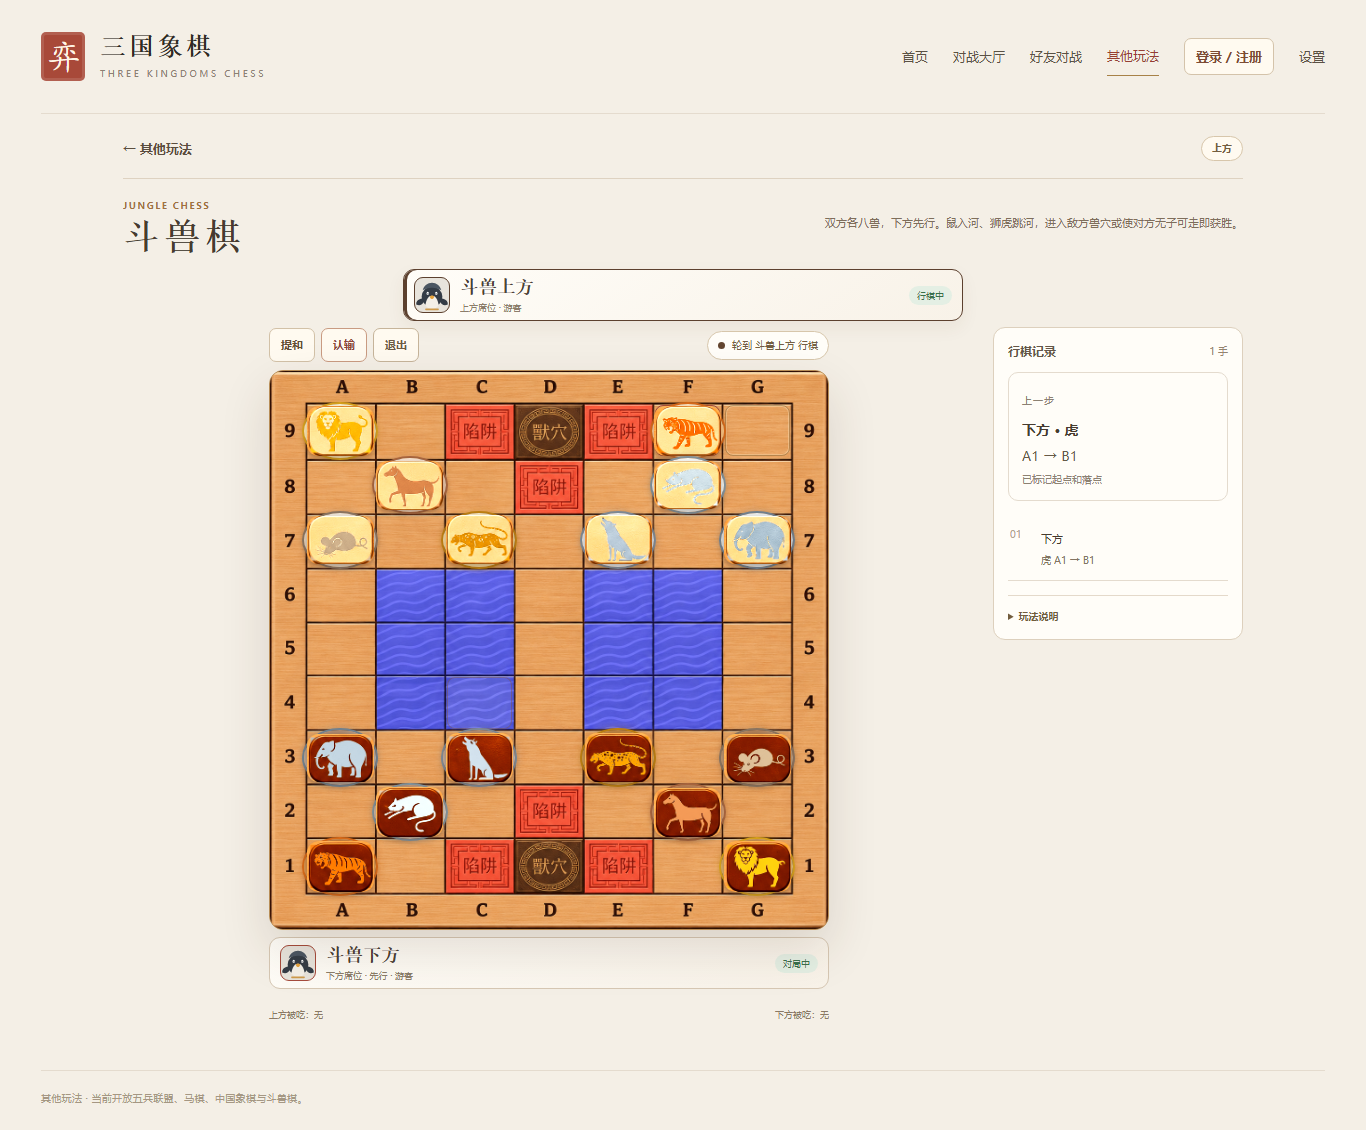
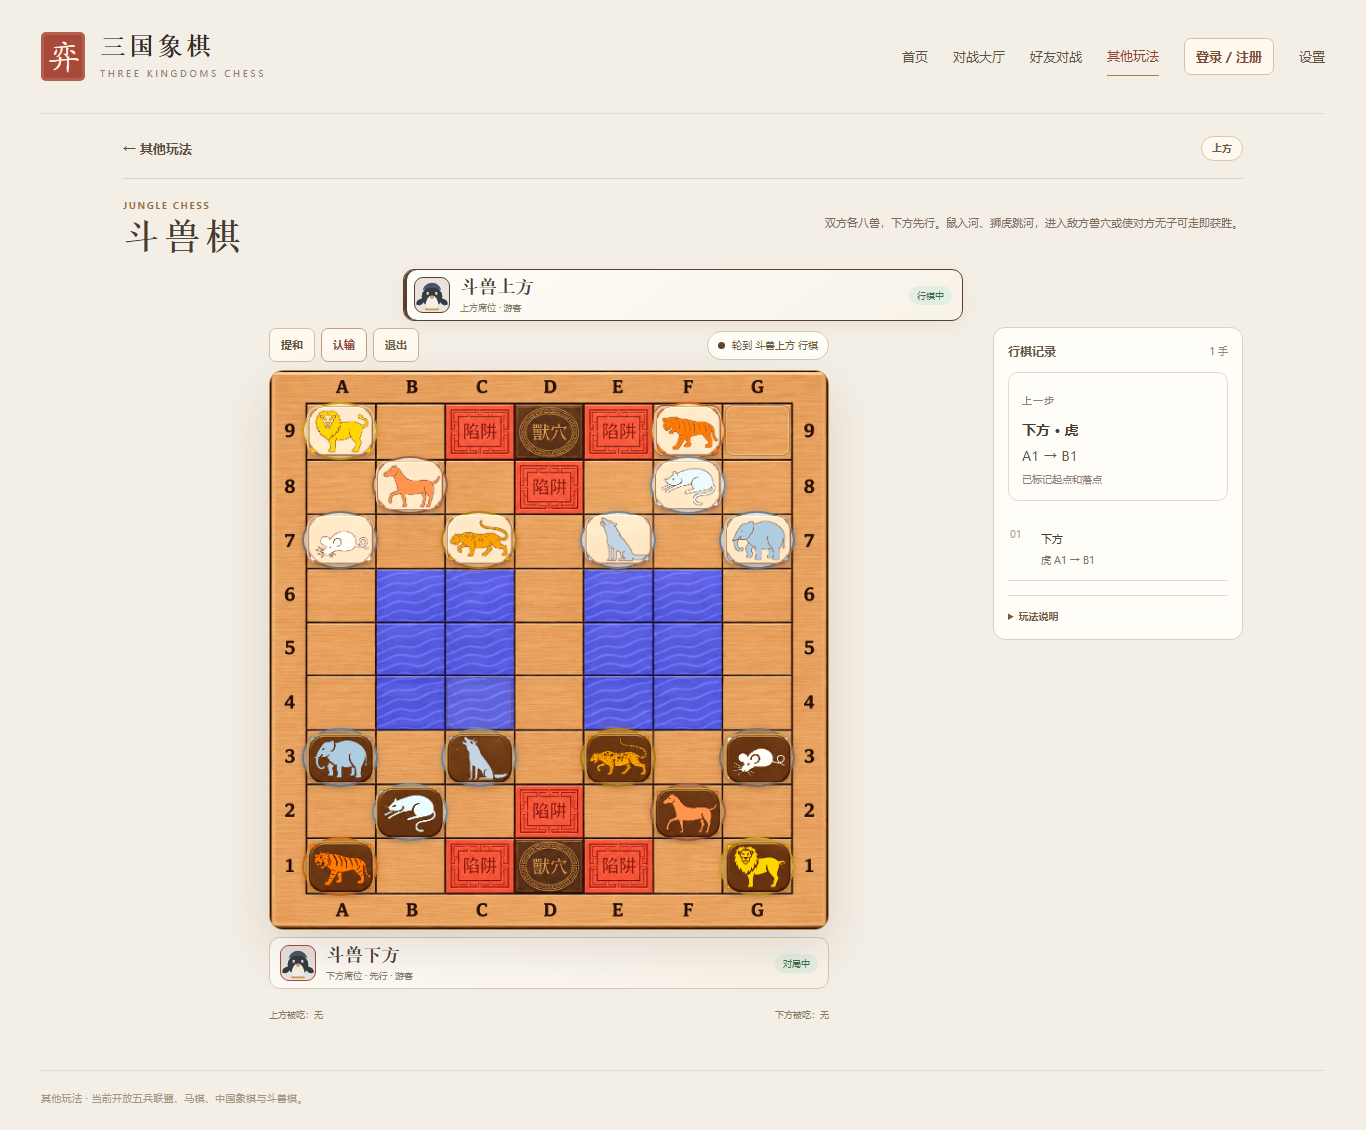
fix: unify beast piece colors

diff --git a/tests/beast-chess-ui.test.ts b/tests/beast-chess-ui.test.ts
@@ -80,7 +80,7 @@ test('Beast Chess joins one table by seat, starts after both ready, moves in syn
   assert.equal(lower.findAll('.beast-cell')[0].attributes('data-coordinate'), 'A9');
   assert.match(upper.get('.beast-board-grid').attributes('aria-label') ?? '', /上方玩家视角/);
   assert.equal(upper.findAll('.beast-piece img').every(image =>
-    (image.attributes('src') ?? '').includes('?v=animal-colors-v2')), true);
+    (image.attributes('src') ?? '').includes('?v=animal-colors-v3')), true);
 
   const readyUpper = upper.findAll('button').find(button => button.text() === '准备');
   assert.ok(readyUpper);

diff --git a/src/components/BeastChessPiece.vue b/src/components/BeastChessPiece.vue
@@ -13,7 +13,7 @@ const props = defineProps<{
 
 const failed = ref(false);
 const imageSource = computed(() =>
-  `images/beast-chess/pieces/${props.piece.side}-${props.piece.kind}.png?v=animal-colors-v2`);
+  `images/beast-chess/pieces/${props.piece.side}-${props.piece.kind}.png?v=animal-colors-v3`);
 const label = computed(() => `${BEAST_SIDE_NAMES[props.piece.side]}${BEAST_KIND_NAMES[props.piece.kind]}`);
 </script>
 

diff --git a/scripts/prepare-beast-chess-assets.py b/scripts/prepare-beast-chess-assets.py
@@ -2,7 +2,7 @@ from __future__ import annotations
 
 from pathlib import Path
 
-from PIL import Image, ImageDraw, ImageOps
+from PIL import Image, ImageChops, ImageDraw, ImageFilter, ImageOps
 
 
 ROOT = Path(__file__).resolve().parents[1]
@@ -56,17 +56,22 @@ REPLACEMENTS = {
     (6, 2): (5, 2),
 }
 
-# Stronger, kind-specific animal colors. Each palette keeps enough tonal range
-# to preserve the original illustration's eyes, stripes and fur details.
+# One exact animal color per kind. The original holes and dark contour preserve
+# eyes, stripes and spots without allowing the side base to alter the fill.
 KIND_COLORS = {
-    "elephant": ("#3d5666", "#cad5dc"),
-    "lion": ("#8b5200", "#ffd24a"),
-    "tiger": ("#7c2800", "#ff8b24"),
-    "leopard": ("#704200", "#e8aa32"),
-    "wolf": ("#586a79", "#d4dde4"),
-    "dog": ("#75442c", "#dda071"),
-    "cat": ("#607887", "#f3f8f8"),
-    "rat": ("#75614e", "#d3bfa4"),
+    "elephant": "#a9becb",
+    "lion": "#f5c72f",
+    "tiger": "#f57f20",
+    "leopard": "#d89b29",
+    "wolf": "#b9c5cf",
+    "dog": "#d89163",
+    "cat": "#dce7ea",
+    "rat": "#f7f3e8",
+}
+
+BASE_COLORS = {
+    "lower": ("#6d351a", "#fff5df"),
+    "upper": ("#36150b", "#edc982"),
 }
 
 
@@ -107,10 +112,10 @@ def colorize_animal(piece: Image.Image, side: str, kind: str) -> Image.Image:
     rgb = piece.convert("RGB")
     alpha = piece.getchannel("A")
     grayscale = rgb.convert("L")
-    dark, light = KIND_COLORS[kind]
-    color_input = (grayscale.point(lambda value: min(255, 80 + value * 2))
-                   if side == "lower" else grayscale)
-    tinted = ImageOps.colorize(color_input, black=dark, white=light).convert("RGBA")
+    base_dark, base_light = BASE_COLORS[side]
+    base = ImageOps.colorize(grayscale, black=base_dark, white=base_light).convert("RGBA")
+    base.putalpha(alpha)
+    tinted = Image.new("RGBA", piece.size, KIND_COLORS[kind])
     tinted.putalpha(alpha)
 
     width, height = piece.size
@@ -136,7 +141,12 @@ def colorize_animal(piece: Image.Image, side: str, kind: str) -> Image.Image:
             if weight:
                 mask_pixels[x, y] = round(weight * alpha_pixels[x, y])
 
-    return Image.composite(tinted, piece, mask)
+    outline = ImageChops.subtract(mask.filter(ImageFilter.MaxFilter(3)), mask)
+    outline = outline.filter(ImageFilter.GaussianBlur(0.45))
+    outline_layer = Image.new("RGBA", piece.size, "#4b2c1c")
+    outline_layer.putalpha(outline.point(lambda value: round(value * 0.78)))
+    base_with_outline = Image.alpha_composite(base, outline_layer)
+    return Image.composite(tinted, base_with_outline, mask)
 
 
 def clean_board(source: Image.Image) -> Image.Image:
